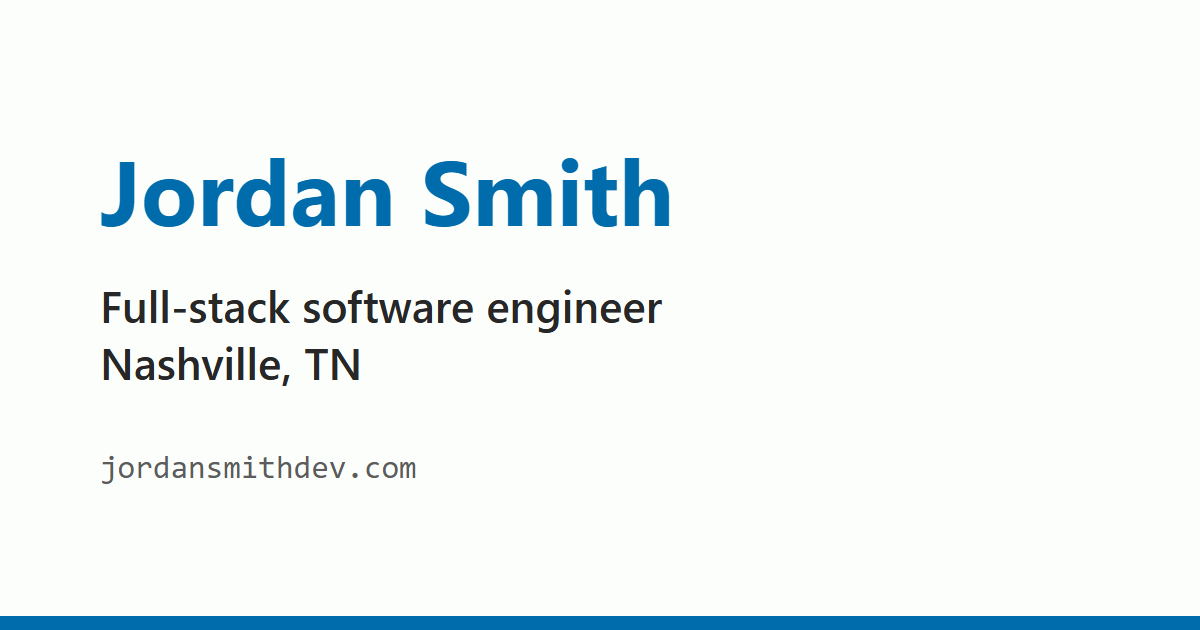
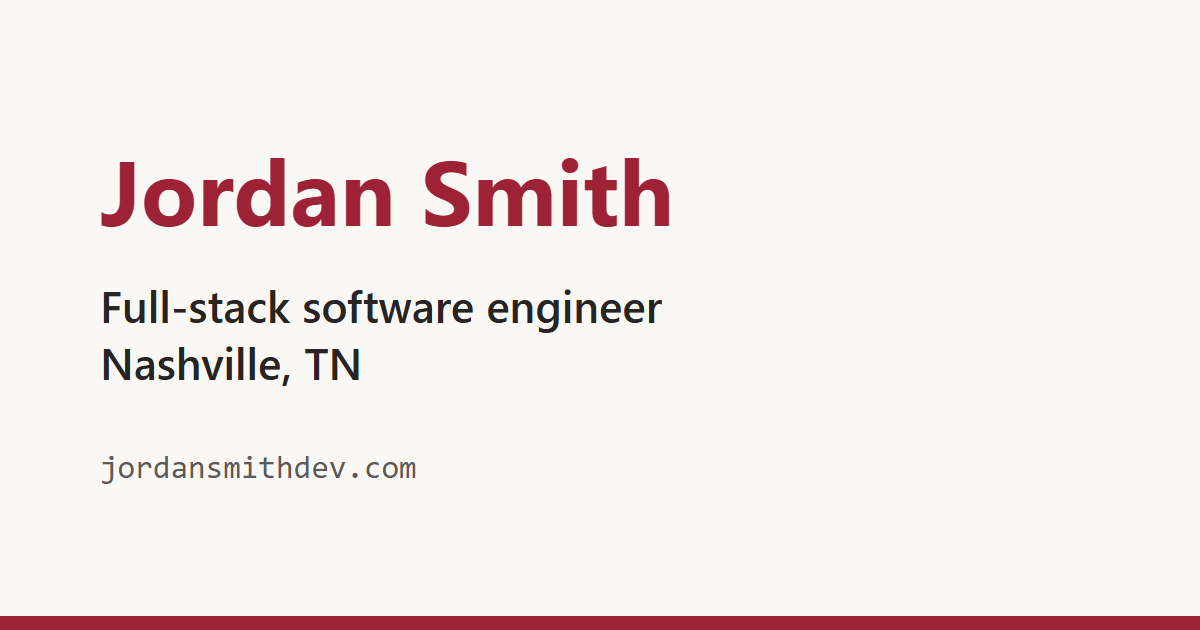
Switch to Arkansas cardinal colours on warm off-white and charcoal
Replaces the navy and orange theme. The link preview image uses the same
colours, and dark-mode buttons use true cardinal with white text for
contrast.

Claude-Session: https://claude.ai/code/session_01TqNeeUaB92G2TQzsNK4STn

Changed region(s): [[0.0, 0.9651, 1.0, 1.0], [0.0617, 0.2413, 0.555, 0.3619]]

diff --git a/src/styles/base.css b/src/styles/base.css
@@ -5,22 +5,24 @@
 @layer base {
   :root,
   html[data-theme="light"] {
-    --color-fill: 251, 254, 251;
-    --color-table-fill: 33, 39, 55;
-    --color-text-base: 40, 39, 40;
-    --color-accent: 0, 108, 172;
-    --color-card: 230, 230, 230;
-    --color-card-muted: 205, 205, 205;
-    --color-border: 236, 233, 233;
+    /* Arkansas cardinal on a warm off-white */
+    --color-fill: 250, 248, 245;
+    --color-table-fill: 45, 45, 48;
+    --color-text-base: 40, 36, 36;
+    --color-accent: 157, 34, 53;
+    --color-card: 238, 232, 228;
+    --color-card-muted: 220, 210, 205;
+    --color-border: 225, 205, 205;
   }
   html[data-theme="dark"] {
-    --color-fill: 33, 39, 55;
-    --color-table-fill: 251, 254, 251;
-    --color-text-base: 234, 237, 243;
-    --color-accent: 255, 107, 1;
-    --color-card: 52, 63, 96;
-    --color-card-muted: 138, 51, 2;
-    --color-border: 171, 75, 8;
+    /* Charcoal; the accent is a lighter cardinal so it stays readable */
+    --color-fill: 45, 45, 48;
+    --color-table-fill: 250, 248, 245;
+    --color-text-base: 245, 245, 245;
+    --color-accent: 232, 84, 106;
+    --color-card: 60, 60, 64;
+    --color-card-muted: 157, 34, 53;
+    --color-border: 157, 34, 53;
   }
   #sun-svg,
   html[data-theme="dark"] #moon-svg {
